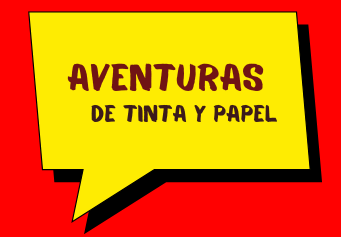
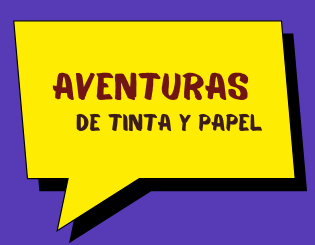
Se creo el segundo carrusel

diff --git a/index.html b/index.html
@@ -3,6 +3,7 @@
 <head>
     <meta charset="UTF-8">
     <meta name="viewport" content="width=device-width, initial-scale=1.0">
+    <link rel='stylesheet' href='https://cdn-uicons.flaticon.com/2.4.0/uicons-regular-straight/css/uicons-regular-straight.css'>
     <link rel="stylesheet" href="./assets/css/style.css">
     <title>Document</title>
     
@@ -45,8 +46,7 @@
     <div class="container">
         <main>
             <!-- carrusel principal -->
-            <div class="contendorMain">
-                    <div class="contenedorCarrusel">
+            <div class="contenedorCarrusel">
                         <div class="carruseles" id="carruseles">
                             <section class="sliderSection"><img src="https://th.bing.com/th/id/R.7f49cdac956d705eedfe990d66a85a64?rik=LPMwe0IKOMoacg&riu=http%3a%2f%2fwww.pixelstalk.net%2fwp-content%2fuploads%2f2016%2f07%2fComic-Book-HD-Wallpaper.jpeg&ehk=CHmEZvUwsNNJG0TTgkfbsGVnxS7Afhj7KoyePLadQko%3d&risl=&pid=ImgRaw&r=0" alt="img5"></section>
                             <section class="sliderSection"><img src="https://th.bing.com/th/id/R.7f49cdac956d705eedfe990d66a85a64?rik=LPMwe0IKOMoacg&riu=http%3a%2f%2fwww.pixelstalk.net%2fwp-content%2fuploads%2f2016%2f07%2fComic-Book-HD-Wallpaper.jpeg&ehk=CHmEZvUwsNNJG0TTgkfbsGVnxS7Afhj7KoyePLadQko%3d&risl=&pid=ImgRaw&r=0" alt="img5"></section>
@@ -56,9 +56,63 @@
                         <div class="btnleft"><</div>
                         <div class="btnRight">></div>
                     </div>
-                </div>
             </div>
-            <!-- novedades -->
+                <!-- novedades -->
+                <h1 class="novedades">Novedades</h1>
+                    <div class="contenedorNovedades">
+                            <div class="contenedorTarjetas" id="contenedorTarjetas">
+                                <div class=" tarjetas">
+                                    <img src="https://th.bing.com/th/id/OIP.dWYf9rmu7W9hCRL8aroRggHaLR?rs=1&pid=ImgDetMain" alt="" >
+                                        <div class="decoracio">
+                                            <div class="nombre">
+                                                <i class="fi fi-rr-shopping-cart"><p>The name of the comics</p></i> 
+                                            </div>
+                                                <p class="precio">$11.300,00</p>
+                                            <div class="botonesNovedades">
+                                                <i class="fi fi-rs-shopping-cart comprar"comprar"><p>comprar</p></i>
+                                                <i class="fi fi-rs-eye detalles"><a href="">detalles</a></i>
+                                            </div>
+                                    </div>
+                                </div>
+                                <div class=" tarjetas">
+                                    <img src="https://th.bing.com/th/id/OIP.dWYf9rmu7W9hCRL8aroRggHaLR?rs=1&pid=ImgDetMain" alt="" >
+                                </div>
+                                <div class=" tarjetas">
+                                    <img src="https://th.bing.com/th/id/OIP.dWYf9rmu7W9hCRL8aroRggHaLR?rs=1&pid=ImgDetMain" alt="" >
+                                </div>
+                                <div class=" tarjetas">
+                                    <img src="https://th.bing.com/th/id/OIP.dWYf9rmu7W9hCRL8aroRggHaLR?rs=1&pid=ImgDetMain" alt="" >
+                                </div>
+                                <div class=" tarjetas">
+                                    <img src="https://th.bing.com/th/id/OIP.dWYf9rmu7W9hCRL8aroRggHaLR?rs=1&pid=ImgDetMain" alt="" >
+                                </div>
+                                <div class=" tarjetas">
+                                    <img src="https://th.bing.com/th/id/OIP.dWYf9rmu7W9hCRL8aroRggHaLR?rs=1&pid=ImgDetMain" alt="" >
+                                </div>
+                                <div class=" tarjetas">
+                                    <img src="https://th.bing.com/th/id/OIP.dWYf9rmu7W9hCRL8aroRggHaLR?rs=1&pid=ImgDetMain" alt="" >
+                                </div>
+                                <div class=" tarjetas">
+                                    <img src="https://th.bing.com/th/id/OIP.dWYf9rmu7W9hCRL8aroRggHaLR?rs=1&pid=ImgDetMain" alt="" >
+                                </div>
+                                <div class=" tarjetas">
+                                    <img src="https://th.bing.com/th/id/OIP.dWYf9rmu7W9hCRL8aroRggHaLR?rs=1&pid=ImgDetMain" alt="" >
+                                </div>
+                                <div class=" tarjetas">
+                                    <img src="https://th.bing.com/th/id/OIP.dWYf9rmu7W9hCRL8aroRggHaLR?rs=1&pid=ImgDetMain" alt="" >
+                                </div>
+                                <div class=" tarjetas">
+                                    <img src="https://th.bing.com/th/id/OIP.dWYf9rmu7W9hCRL8aroRggHaLR?rs=1&pid=ImgDetMain" alt="" >
+                                </div>
+                                <div class=" tarjetas">
+                                    <img src="https://th.bing.com/th/id/OIP.dWYf9rmu7W9hCRL8aroRggHaLR?rs=1&pid=ImgDetMain" alt="" >
+                                </div>
+                            </div>
+                            <div class="botonINovedades"><</div>
+                            <div class="botonDNovedades">></div>
+                    </div>
+        </div>
+        <h1>separacion</h1>
         </main>
         <!-- carrucel de categorias -->
         <!-- preventa -->

diff --git a/assets/css/style.css b/assets/css/style.css
@@ -4,7 +4,7 @@
     box-sizing: border-box;}
 /* header */
 .contenedor{
-    background-color: rgb(255, 0, 0);
+    background-color: #573bb6;
 }
 .parte1{
     display: grid;
@@ -37,7 +37,7 @@
 }
 .BotonesDelHeader{
     display: flex;
-    gap: 15%;
+    gap: 10px;
     margin-left: 5%;
 }
 .botonHeader{
@@ -65,6 +65,7 @@
 /*nav*/
 nav{
     grid-column: 3;
+    background-color:#4121a1;
 }
 .botonesNav{
     display: flex;
@@ -73,38 +74,32 @@ nav{
 }
 .botonNav{
     color: rgb(255, 255, 255);
-    background-color: rgb(188, 29, 29);
     text-decoration: none;
-    font-size: 20px;
+    font-size: 22px;
     padding-left: 1%;
     padding-right: 1%;
-    border-right:  13px solid rgb(115, 12, 26);
 }
+.linea{
+    border-right: 1px solid black;
+}
+.botonNav:hover{
+    color: blue;
+}
+/* Carrucel  principal*/
 
-/* Carrucel */
-/* Carrucel */
-.contendorMain{
-    grid-row: 3/4;
-    padding:50px;
-    background-color: aqua;
-}
-h3{
-    margin-top: 400px;
-}
-.contendorMain{
-    display: flex;
-    padding: 20px;  
+.contenedorCarrusel{
+    margin-top: 30px;
 }
 .contenedorCarrusel{
     width: 100%;
-    height: 38%;
+    height: 48%;
     background-color: black;
-    box-shadow:  0 8px 32px 0 rgba(0,0,0,0.66);
+    /* box-shadow:  0 8px 32px 0 rgba(0,0,0,0.66); */
     overflow: hidden;
-    position: absolute;
+
 }
 .carruseles{
-    width: 400%;
+    width: 300%;
     height: 100%;
     display: flex;
 
@@ -113,24 +108,10 @@ h3{
     width: calc(100%/4);
     height: 400px;
 }
-/* img .imagen1{
-    position: absolute;
-} */
-
 .sliderSection img{
-    width: 100%;
-    height: 300px;
-    /* object-fit: cover; */
-    position: absolute;
+    width: 170vh;
+    height: 100%;
 }
-/* h2{
-   
-    background-color: rgba(0, 0, 0, 0.5);
-    color:black;
-    padding: 5px;
-    top: 200rem;
-    border-radius: 3px;
-} */
 
 /* botones del carrucel */
 .btnleft:hover,.btnRight:hover{
@@ -156,4 +137,106 @@ h3{
 }
 .btnRight{
     right: 10px;
+}
+.contenedorNovedades{
+    margin-top: 30px;
+}
+.contenedorTarjetas{
+    width: 300%;
+    height: 150%;
+    display: flex;
+    gap: 40px;
+
+}
+.contenedorNovedades{
+    width: 100%;
+    height: 500px;
+    background-color: rgb(255, 253, 253);
+    overflow: hidden;
+}
+.botonINovedades:hover,.botonDNovedades:hover{
+    color:white;
+}
+.botonINovedades,.botonDNovedades{
+    display: flex;
+    position: absolute;
+    font-size: 2rem;
+    top: 108%; 
+    background-color: transparent;
+    border-radius: 50%;
+    padding: 5px;
+    font-weight: 600;
+    cursor: pointer;
+    color: #eee9e981;
+    transform: translate(0,-50%);
+    transition: .5s ease;
+
+}
+
+/* botones del carrucel */
+
+.botonDNovedades{
+    right: 10px;
+}
+.botonINovedades{
+    left:  10px;
+}  
+/* Decoracion */
+.tarjetas{
+    height: 400px;
+    margin-left: 13px;
+ } 
+ .botonesNovedades{
+    display: flex;
+    border-radius: 30px;
+    gap: 5px;
+ }
+
+.tarjetas img{
+    width: 35vh;
+    height: 75%;
+
+}
+.precio{
+    color: rgb(0, 0, 0);
+    font-size: 20px;
+}
+.comprar{
+    background-color:#4121a1 ;
+    color:white;
+    display: flex;
+    gap: 1px;
+    padding: 10px 20px 10px 20px;
+    border-radius: 10px;
+}
+
+.novedades{
+    align-items: center;
+    text-align: center;
+    margin-top: 10px;
+}
+.detalles{
+   padding: 10px 20px 10px 20px;
+    border:solid 1px #4121a1;
+    background-color:#4121a1 ;
+    color:white;
+    border-radius: 10px;
+    display: flex;
+    gap: 3px;
 } 
+.detalles a {
+    color: white;
+    text-decoration: none;
+}
+.tarjetas h5{
+    font-size: 23px;
+    color: blueviolet
+}
+hr{
+    color: #573bb6;
+   border: #4121a1 1px solid;
+
+}
+.tarjetas{
+    border: #573bb6 solid 3px;
+}

diff --git a/assets/js/main.js b/assets/js/main.js
@@ -8,9 +8,7 @@ btnProductos.addEventListener("mouseenter", ()=>{
     }else{
         productos.className = "pepino";
     }
-
 })
-
 // declaracion de variables
 const btnLeft = document.querySelector(".btnleft");
 const btnRight = document.querySelector(".btnRight");
@@ -27,7 +25,7 @@ let operacion=0;
 let whitdImg = 100/sliderSection.length;
 let counter=0;
 function moveToRight() {
-    if(counter>=sliderSection.length){
+    if(counter>=sliderSection.length-1){
         counter=0;
         operacion=0;
     }else{ 
@@ -51,3 +49,48 @@ function moveToLeft(){
     }
 }
 
+// Variables del carrusel de novedades
+const btnI = document.querySelector(".botonINovedades");
+const btnD = document.querySelector(".botonDNovedades");
+const carruselNovedades = document.querySelector("#contenedorTarjetas");
+const tarjetas = document.querySelectorAll(".tarjetas");
+
+// Eventos
+btnI.addEventListener('click', (e) => moveToI());
+btnD.addEventListener('click', (e) => moveToD());
+
+let operacionN = 0;
+let contadorN = 0;
+let whitdImg2 = 100 / tarjetas.length;
+
+function moveToI() {
+    contadorN--;
+    if (contadorN < 0) {
+        contadorN = tarjetas.length - 1;
+        operacionN = whitdImg2 * (tarjetas.length - 1);
+        tarjetas.forEach(tarjeta => {
+            tarjeta.style.transform = `translate(-${operacionN}%)`;
+            tarjeta.style.transition = "all ease .2s";
+        });
+    } else {
+        operacionN = operacionN - whitdImg2;
+        tarjetas.forEach(tarjeta => {
+            tarjeta.style.transform = `translate(-${operacionN}%)`;
+            tarjeta.style.transition = "all ease .2s";
+        });
+    }
+}
+
+function moveToD() {
+    if (contadorN >= tarjetas.length - 1) {
+        contadorN = 0;
+        operacionN = 0;
+    } else {
+        contadorN++;
+        operacionN = operacionN + whitdImg2;
+    }
+    tarjetas.forEach(tarjeta => {
+        tarjeta.style.transform = `translate(-${operacionN}%)`;
+        tarjeta.style.transition = "all ease .2s";
+    });
+}
